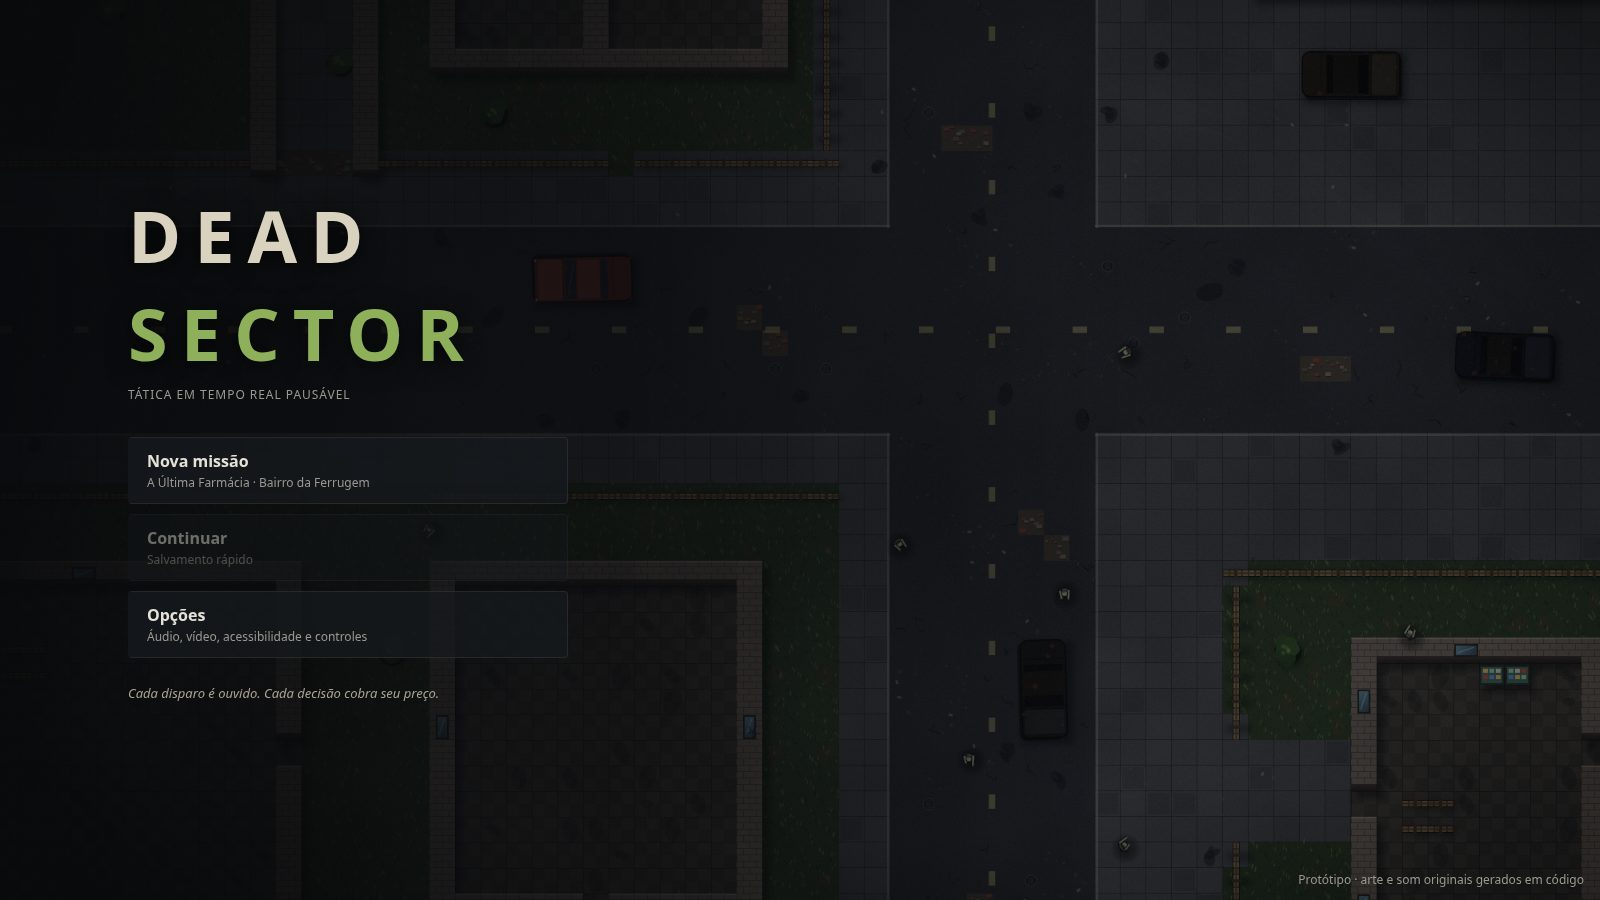
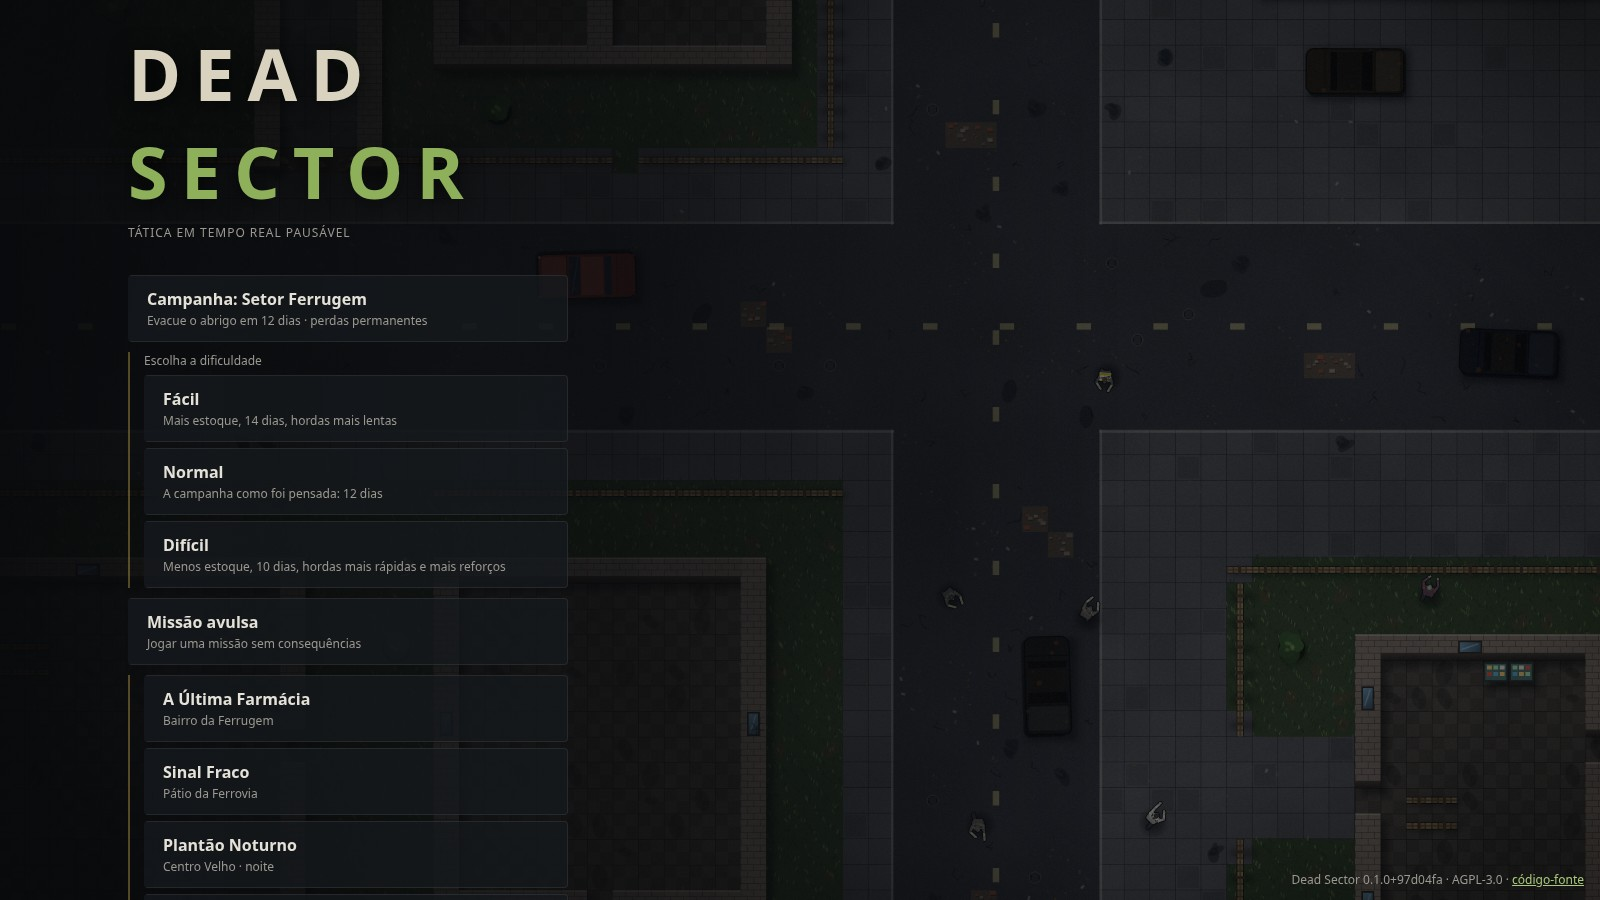
[ART] promo: recapture shots, cover and trailer with the current characters
The README battle shot, the store cover and the trailer footage still
showed the characters from before ADR 0025, and the menu and night shots
were older still (code-drawn sprites, the old menu). The menu and night
shots are now scripted in apps/web/promo/shots.promo.ts like the battle
shot, so all four can be captured again in one run.

diff --git a/apps/web/promo/shots.promo.ts b/apps/web/promo/shots.promo.ts
@@ -92,3 +92,28 @@ test('cover plate', async ({ page }) => {
     });
   }
 });
+
+// Title screen over the moving backdrop of the Bairro da Ferrugem.
+test('menu', async ({ page }) => {
+  await page.addInitScript(() => localStorage.setItem('dead-sector:tips', '0'));
+  await page.goto('/?lang=pt-BR');
+  await page.getByTestId('menu').waitFor();
+  await manualClock(page);
+  // let the infected on the backdrop walk into their stride
+  await step(page, 150);
+  await shot(page, 'menu');
+});
+
+// Night in the Centro Velho: the squads' lanterns are the only light when the first shots ring out.
+test('night', async ({ page }) => {
+  await mission(page, 'plantao-noturno');
+  await page.evaluate(() => (window as any).__DEAD_SECTOR__.startPlan('mission'));
+  await manualClock(page);
+  await zoom(page, 2.6);
+  await until(page, 'SHOT_FIRED', 1, 'alfa', 9000);
+  for (let n = 0; n < (CANDIDATES ? 6 : 1); n++) {
+    await until(page, 'SHOT_FIRED', 2, 'alfa');
+    await step(page, 2);
+    await shot(page, CANDIDATES ? `night-${n}` : 'night');
+  }
+});

diff --git a/TASKS.md b/TASKS.md
@@ -20,8 +20,9 @@
 - Measure frame rate on real GPUs (low-end laptop, integrated graphics) with the in-game FPS readout; tune "Média"
   and "Baixa" accordingly.
 - Snap release: register `dead-sector` in the Snap Store and connect its Builds tab (CI already builds and smoke-tests it).
-- Art, next step: textures or a sculpted pass on the models (heads and clothes), or regenerate the trailer and the
-  store cover with the new characters (`node tools/promo/trailer.mjs`).
+- Art, next step: textures or a sculpted pass on the models (heads and clothes).
+- README `orders.jpg` still shows the code-drawn characters: it needs Shift-click waypoints and the order menu open,
+  so it has no scripted capture yet.
 
 ## BLOCKED
 
@@ -29,6 +30,10 @@
   battery, before and after this work), so measure on another machine until that is solved.
 
 ## DONE
+
+- Promo refreshed with the current characters: README battle, menu and night shots, the store and studio-site cover,
+  and the trailer footage (`~/assets/_staging/dead-sector/trailer/dead-sector-trailer.mp4`, 30.5 s, 1080p). The menu
+  and night shots are now captured by `apps/web/promo/shots.promo.ts` like the battle shot.
 
 - Idle look-around and a reload pose: sheets grow to 14 frames. Actors that stand still for 2 s glance left and right
   (not infected closing in), and a survivor changing magazines shows the reload pose. A second crawler look (ADR
